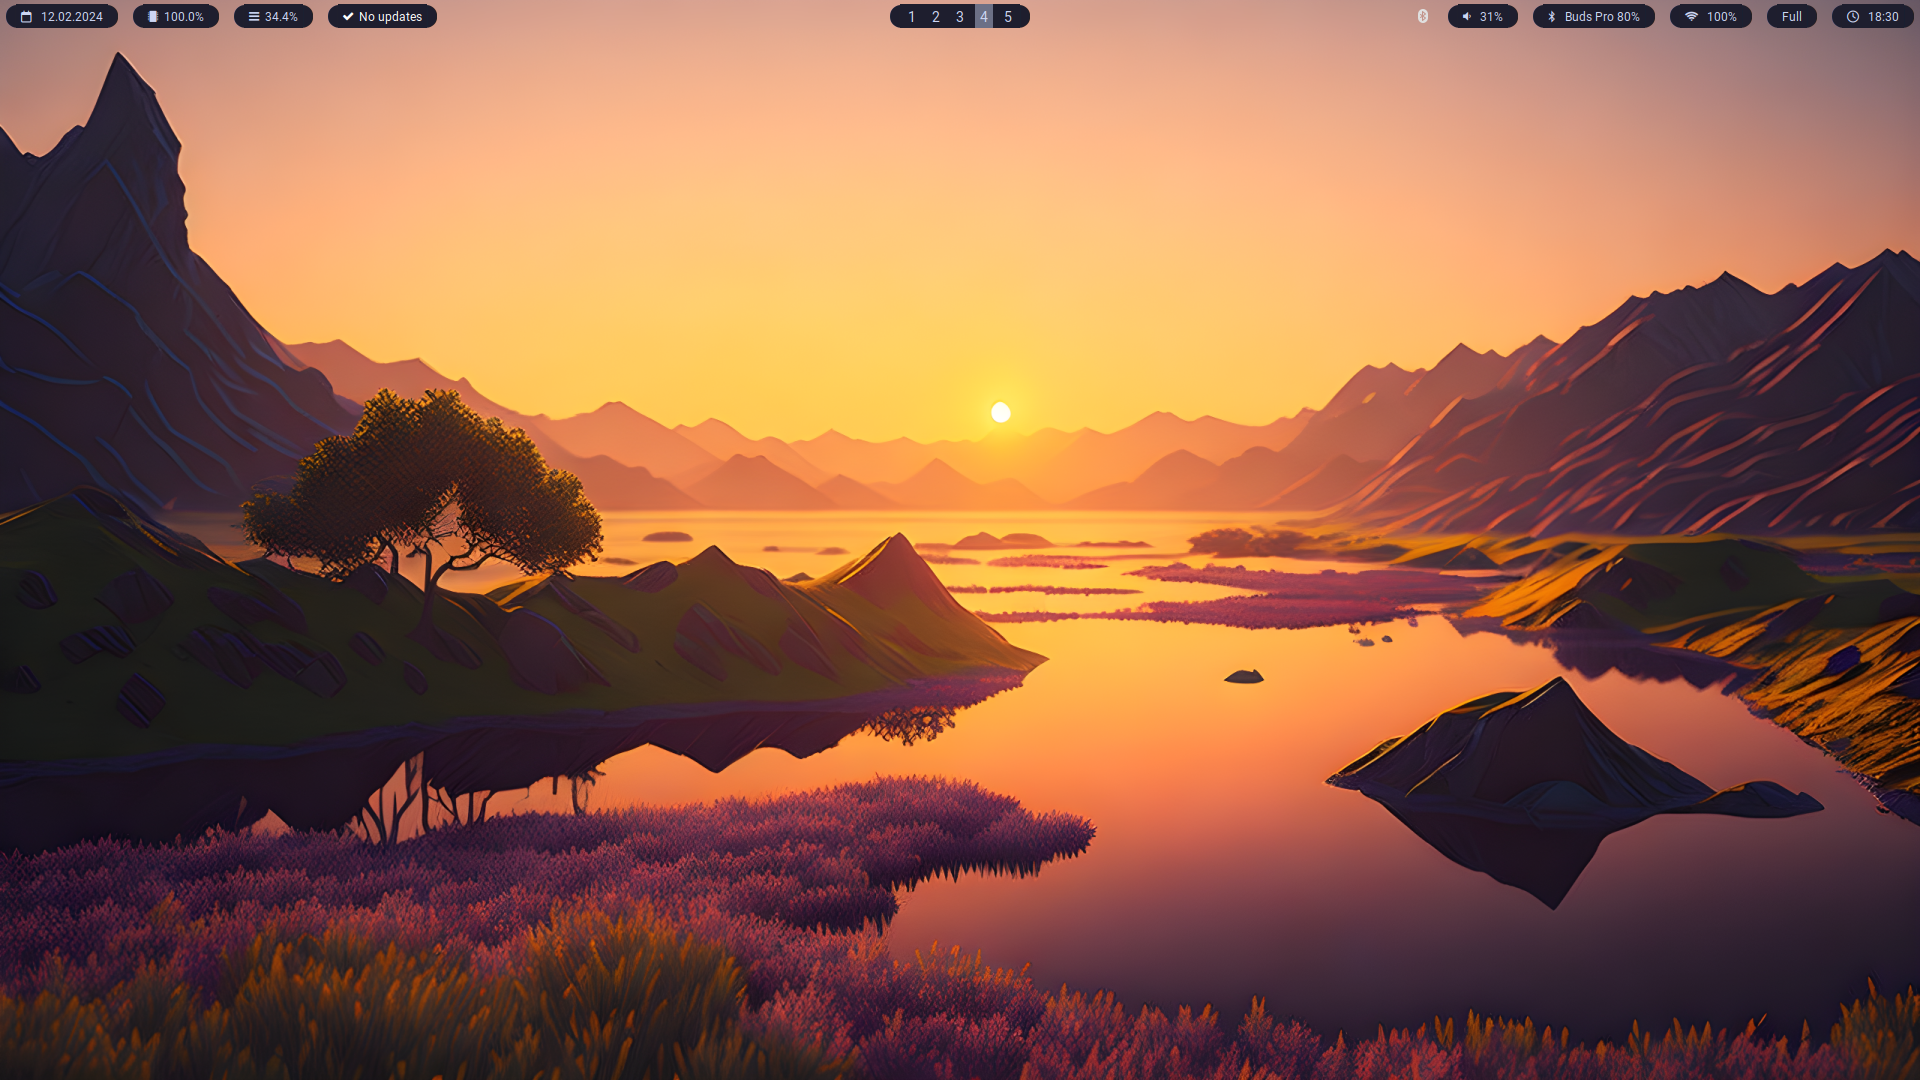
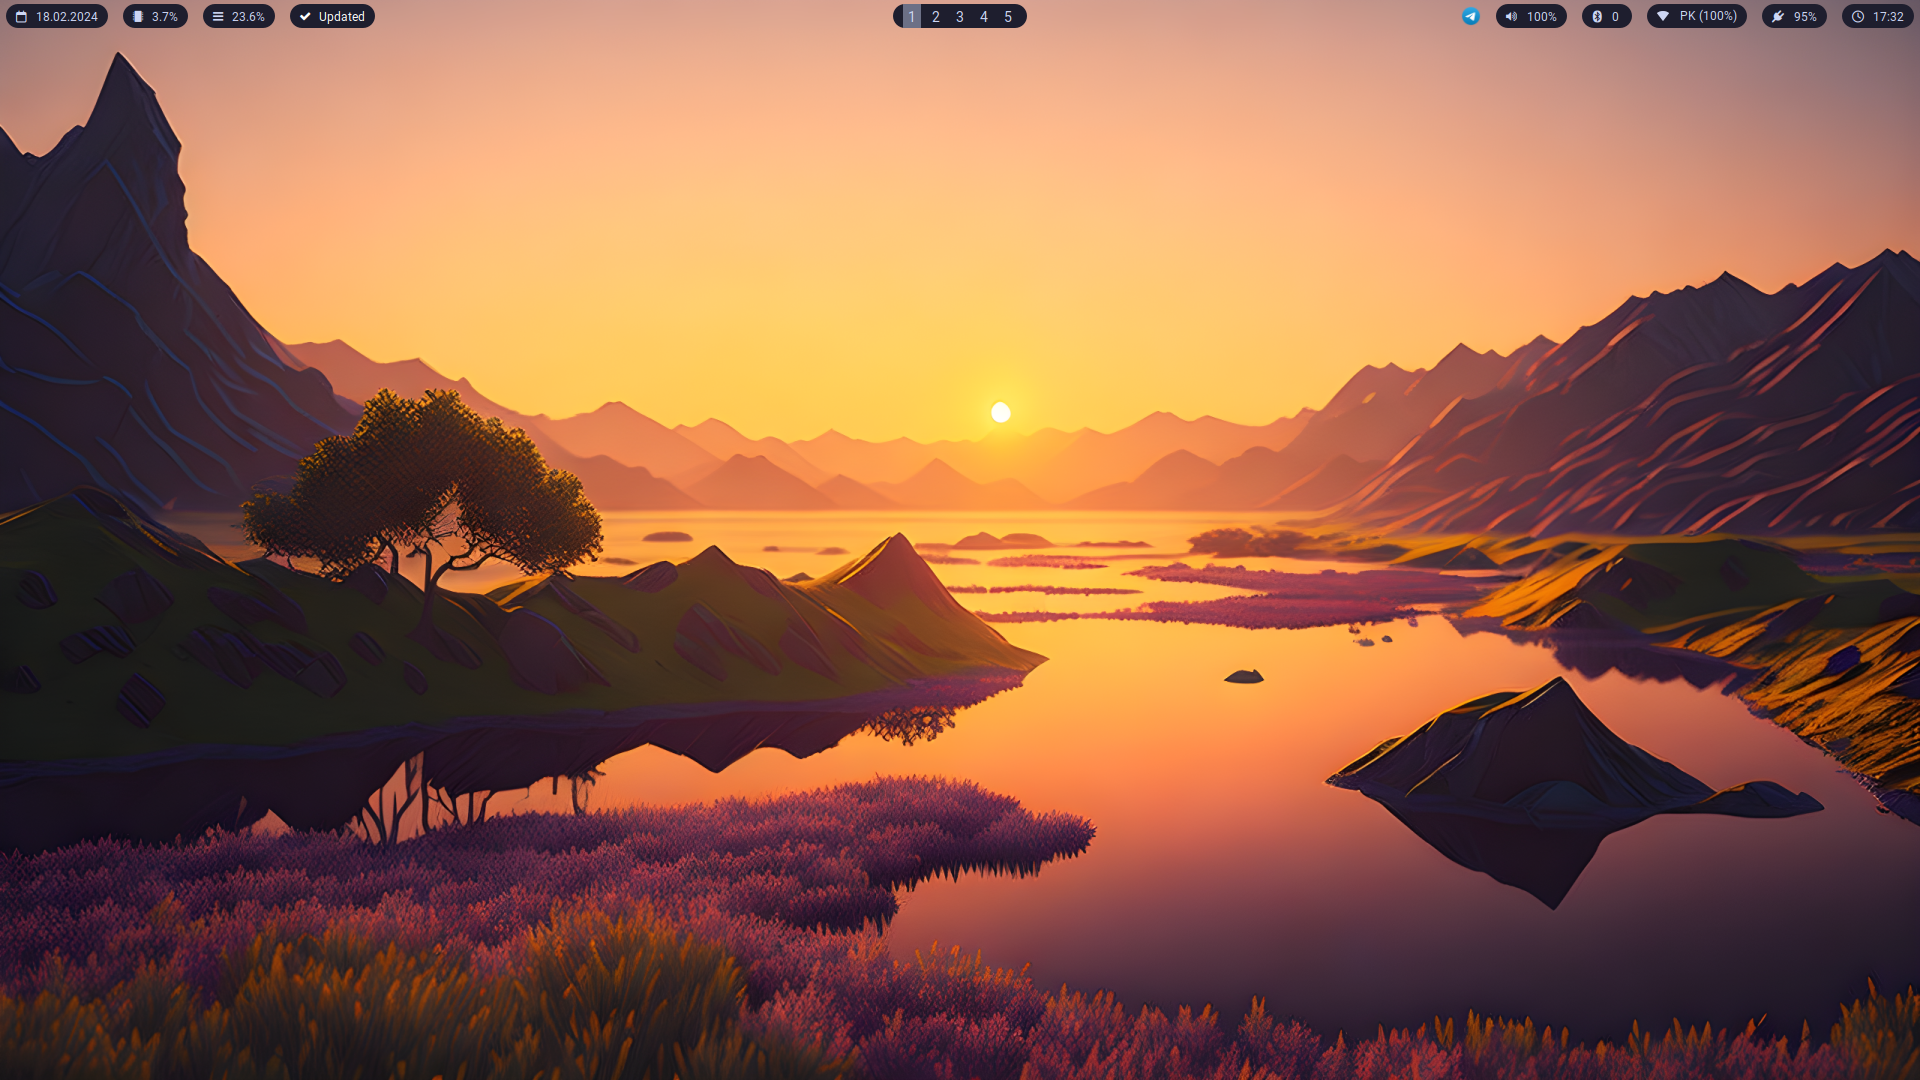
Changed the screenshots

Changed region(s): [[0.75, 0.0, 1.0, 0.0306], [0.0, 0.0, 0.25, 0.0306], [0.4688, 0.0, 0.5312, 0.0306]]

diff --git a/README.md b/README.md
@@ -56,6 +56,6 @@ Hope you like it as a base for your own rice or even as a ready to go config. I'
 
 # Screenshots
 
-![Screenshot](/screenshots/WholeFloating.png)
-![Screenshot](/screenshots/WholeEmpty.png)
-![Screenshot](/screenshots/WholeTiled.png)
+![Screenshot](/screenshots/NewBarWholeFloating.png)
+![Screenshot](/screenshots/NewBarWholeEmpty.png)
+![Screenshot](/screenshots/NewBarWholeTiled.png)
